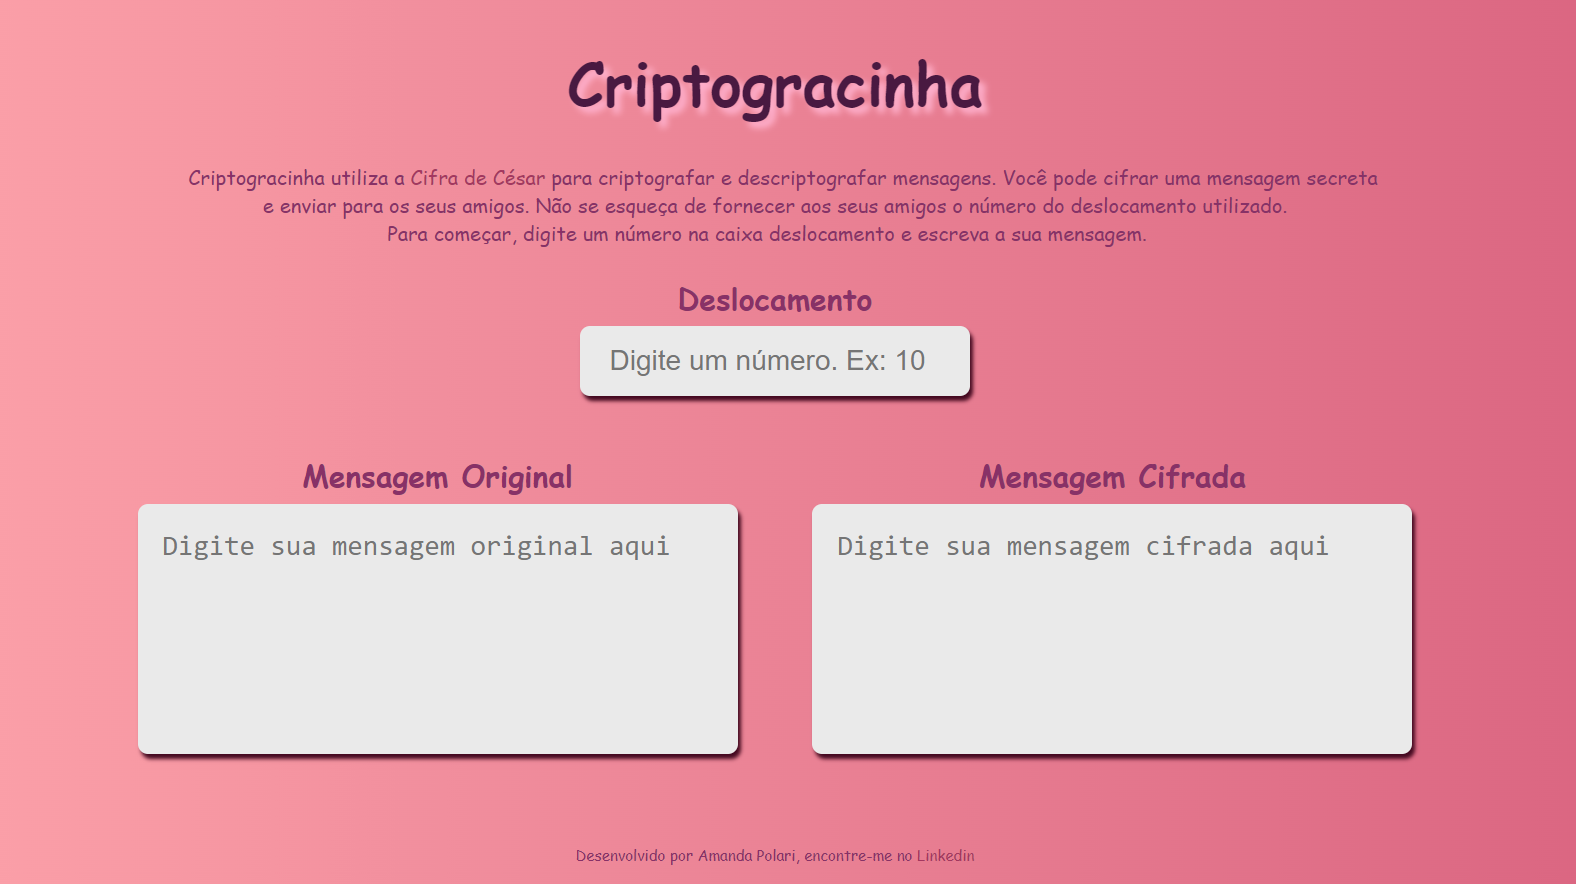
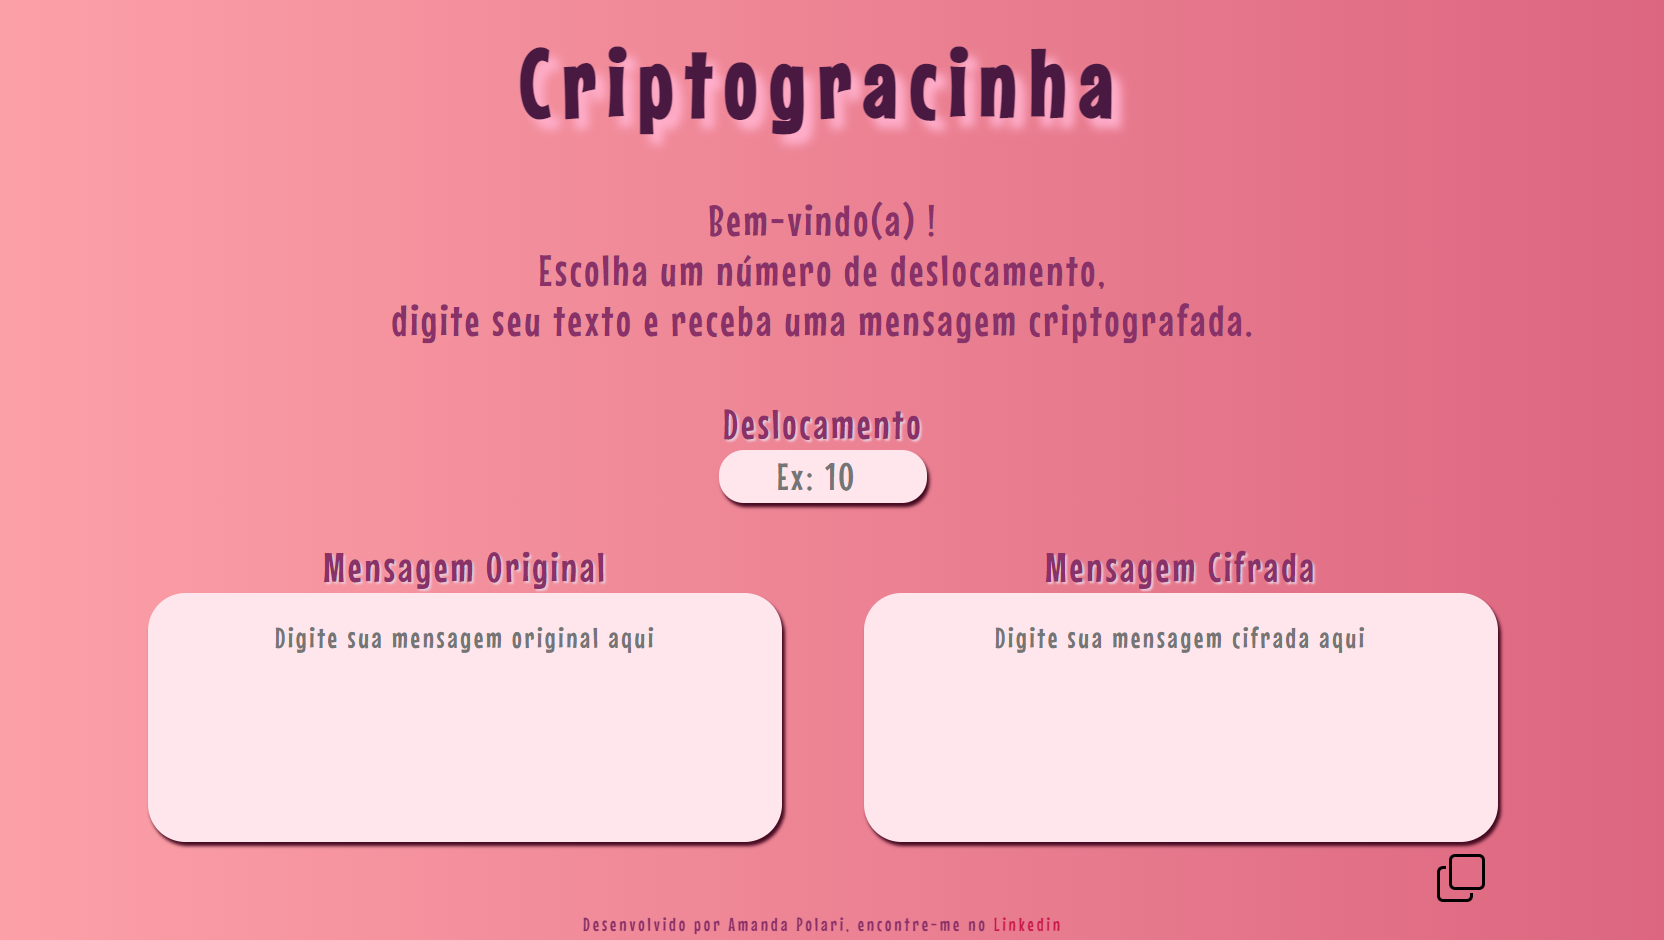
Mudança no layout do botão de copiar e ajustes no readme

diff --git a/src/style.css b/src/style.css
@@ -100,16 +100,9 @@ textarea {
     padding: 0 15vw;
 }
 
-#button-copy {
-    display: flex;
-    justify-content: flex-end;
-    background: linear-gradient(180deg, #F99DA6 0%, #D96A88 47.92%, #8C356E 100%);
-    background-blend-mode: overlay;
-    border: 1.5px solid #5D2963;
-    box-shadow: 0px 4px 4px rgba(0, 0, 0, 0.25);
-    border-radius: 5px;
-    padding: 1vw;
-    margin: 1vw;
+#img-copy {
+    width: 7.5vw;
+    margin: 1vw 2vw;
 }
 
 footer {
@@ -196,11 +189,9 @@ a {
         padding: 0 15vw;
     }
 
-    #button-copy {
-        border-radius: 30px;
-        padding: 0.6vw;
-        margin: 0.1vw;
-        font-size: 1.5vw;
+    #img-copy {
+        width: 2.5vw;
+        margin: 0 0.5vw;
     }
 
     footer {

diff --git a/src/index.js b/src/index.js
@@ -22,13 +22,14 @@ mensagemCifrada.addEventListener("input", cifraDeCesar);
 
 
 // Botão de Copiar Mensagem
-let btn = document.querySelector('#button-copy');
+let btn = document.querySelector('#img-copy');
 btn.addEventListener('click', function() {
   let textArea = document.querySelector('#mensagem-cifrada');
   textArea.select();
   document.execCommand('copy');
 });
 
+// Função de aparecer e sumir mensagem após alguns segundos
 btn.addEventListener ('click', function () {
   document.getElementById("msgAlerta").innerHTML = "<p class='alert'>Mensagem copiada com sucesso!</p>"
     setTimeout(function(){

diff --git a/src/index.html b/src/index.html
@@ -44,7 +44,7 @@
         <span id="msgAlerta"></span>
       </div>
       <div class="butto-and-span">
-        <button id="button-copy">Copiar</button>
+        <img id="img-copy" src="./icon/icon-copiar.png" alt="imagem de copiar">
       </div>
     </main>
   </body>

diff --git a/README.md b/README.md
@@ -1,7 +1,12 @@
 # Criptogracinha
+
+![imagem do site](./img/site-final.png)
+
 <p align="center">
+<span><strong>Tecnologias Utilizadas:</strong></span>
+<br>
   <a href="https://skillicons.dev">
-    <img src="https://skillicons.dev/icons?i=html,css,js,jest,github,git" style="height: 25px;" />
+    <img src="https://skillicons.dev/icons?i=html,css,js,jest,github,git" style="height: 25px;"/>
   </a>
 </p>
 
@@ -18,9 +23,9 @@
 
 ## 1. Resumo do projeto
 
-O projeto *Cipher* foi o **primeiro projeto desenvolvido no bootcamp da Laboratoria**.
+ *Cipher* foi o **primeiro projeto desenvolvido no bootcamp da Laboratoria**.
 
-O seu principal objetivo era construir uma aplicação web que possa interagir com o usuário através do navegador utilizando HTML, CSS e JavaScript. Nesta aplicação, o usuário precisa digitar um offset, escrever a sua mensagem e receber uma mensagem criptografada.
+O seu principal objetivo era construir uma aplicação web que possa interagir com o usuário através do navegador utilizando HTML, CSS e JavaScript. Nesta aplicação, o usuário precisa digitar um offset, escrever seu texto e receber sua mensagem criptografada.
 
 A partir disso, **criptogracinha** utiliza a [cifra de César](https://pt.wikipedia.org/wiki/Cifra_de_C%C3%A9sar) para criptografar mensagens. 
 
@@ -28,8 +33,7 @@ Não há restrições para digitação de mensagem, o usuário pode digitar letr
 
 A mensagem cifrada aparece simultâneamente à sua digitação, sem a necessidade de um botão para realizar a cifragem ou decifragem
 
-![imagem do site](./img/site-final.png)
-
+Além disso, é possível copiar a mensagem criptografada, clicando no ícone de copiar, o usuário também receberá uma notificação de sucesso confirmando a cópia do texto.
 
 ***
 
